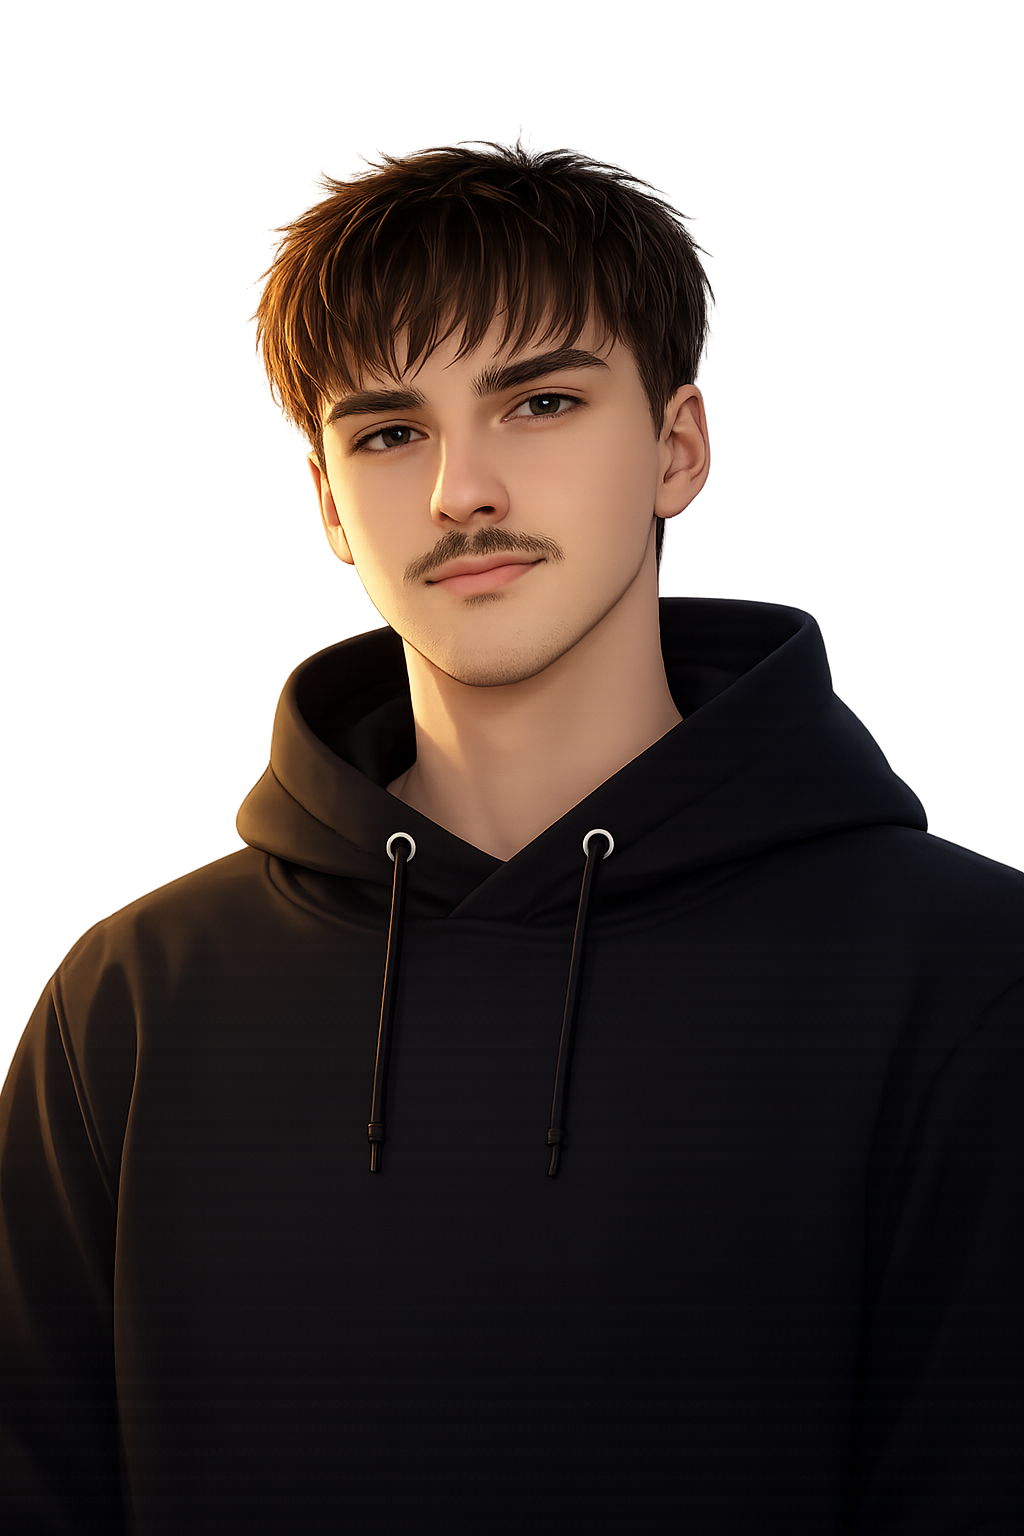
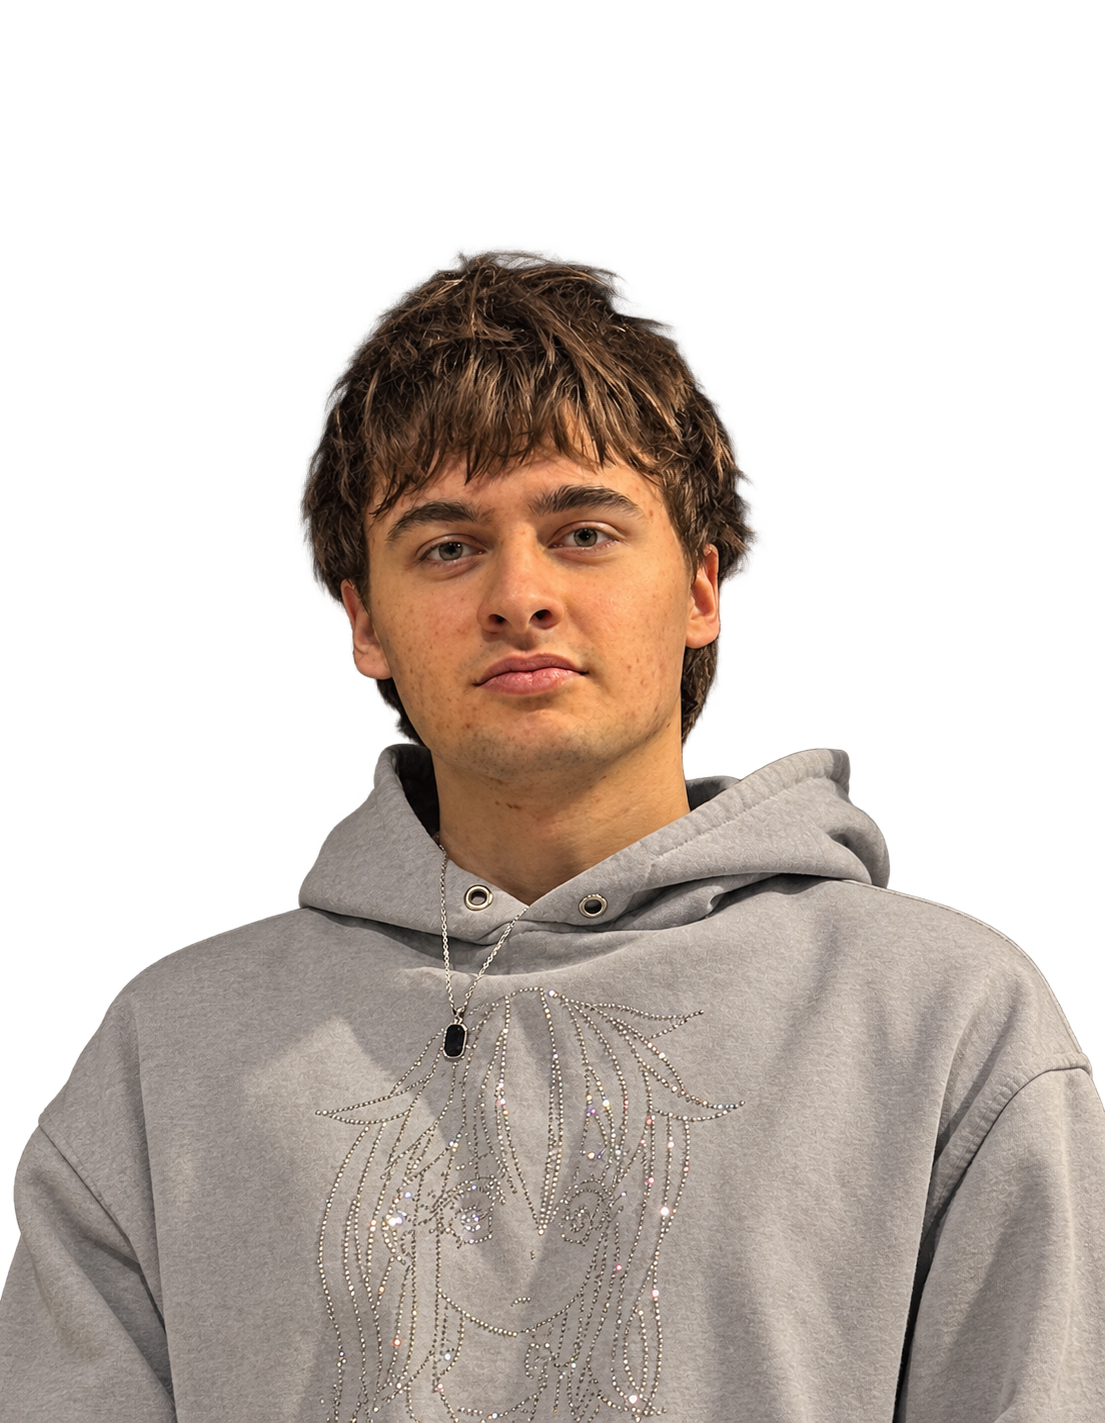
Update img
Update avatar image to actual image

diff --git a/src/components/portfolio/Hero.tsx b/src/components/portfolio/Hero.tsx
@@ -113,7 +113,7 @@ export default function Hero() {
                 />
               </div>
               <div className="absolute -bottom-2 -right-2 w-12 h-12 rounded-full bg-primary/10 backdrop-blur-sm flex items-center justify-center">
-                <span className="text-lg">🤓</span>
+                <span className="text-lg">🫠</span>
               </div>
             </div>
           </div>
